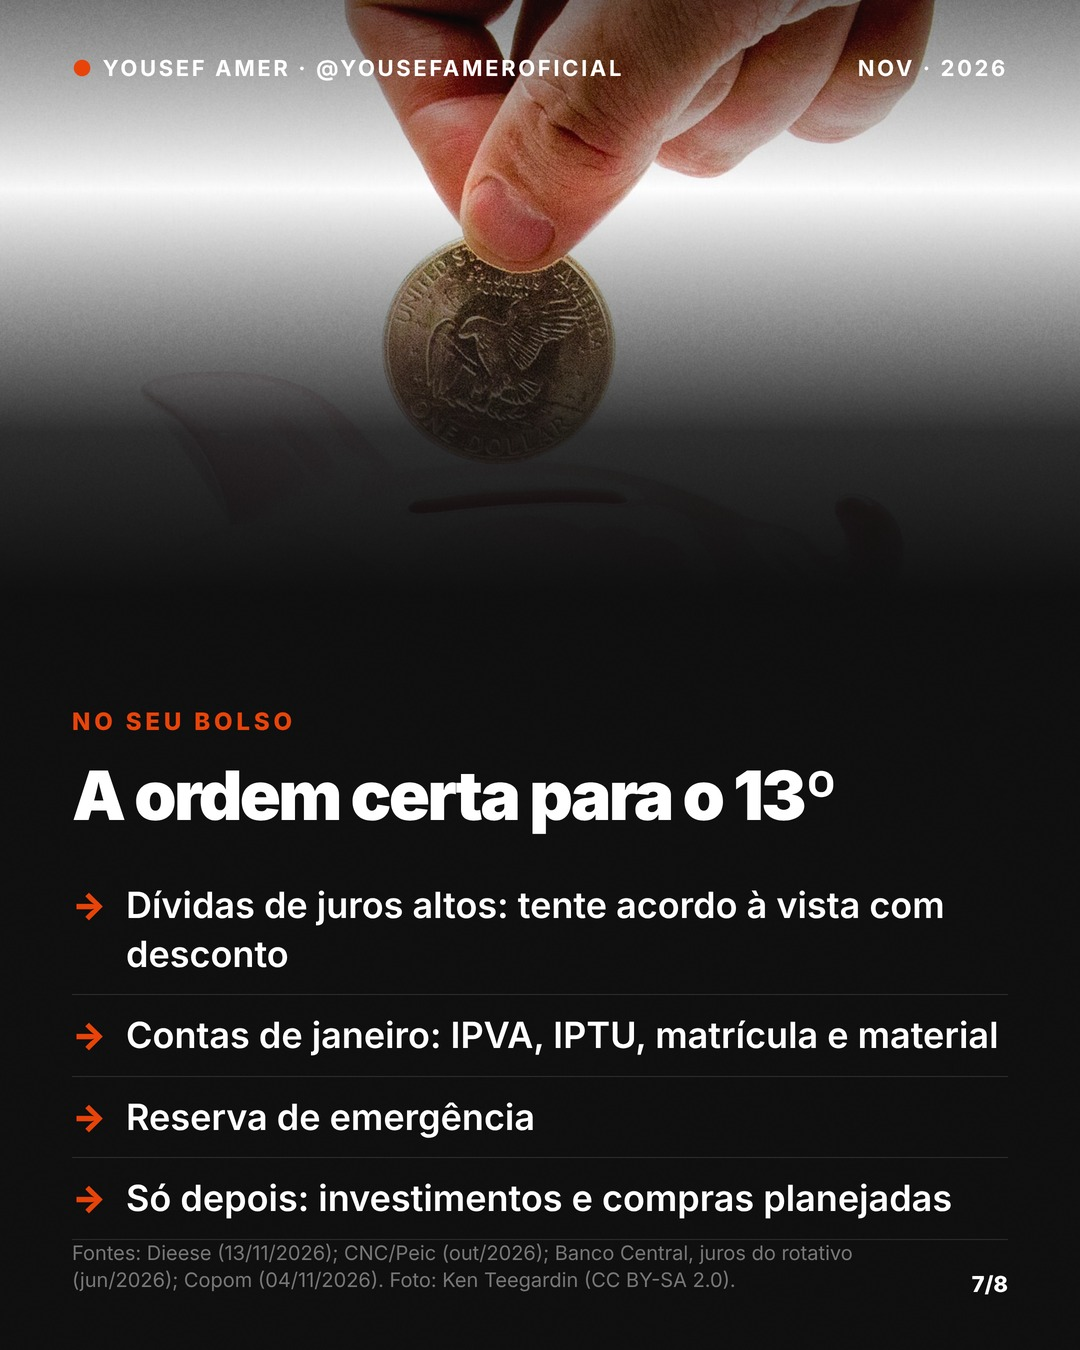
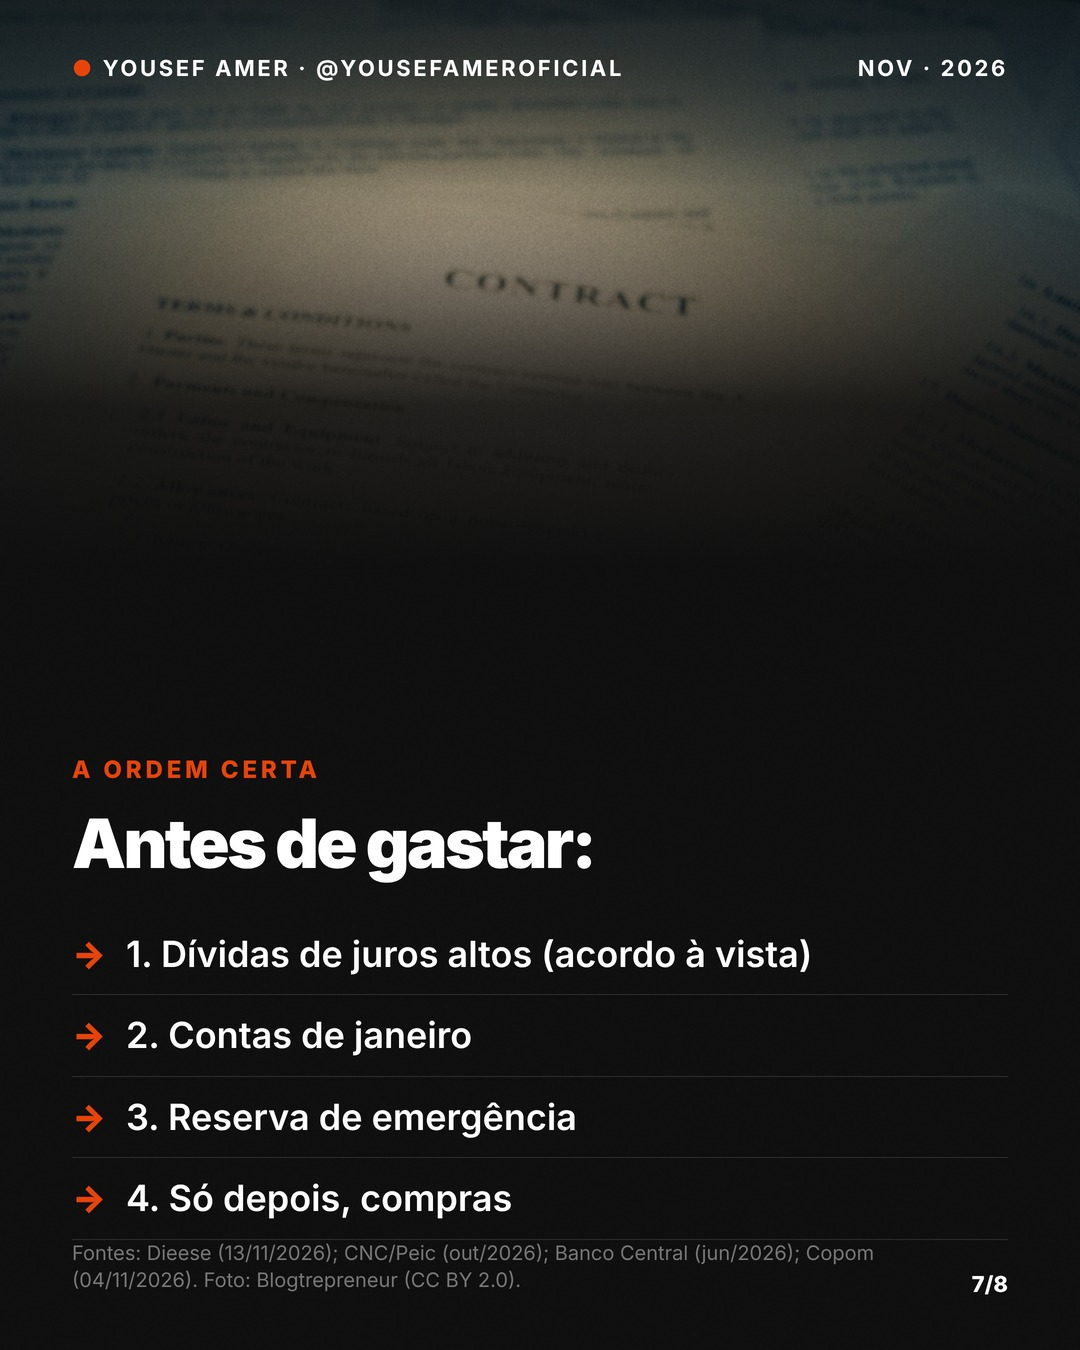
Collab 13º: novo design com foto em todos os slides e números grandes
Claude-Session: https://claude.ai/code/session_01PgX7nvM3iYSo6xDzmGNfnx

diff --git a/marketing/yousef/carrosseis/2026-11-collab-13-contas/slides/07.html b/marketing/yousef/carrosseis/2026-11-collab-13-contas/slides/07.html
@@ -4,4 +4,4 @@ ul.l{list-style:none;margin-top:34px}ul.l li{font-size:36px;line-height:1.35;fon
 ul.l li:before{content:'→';position:absolute;left:0;color:#E8440A;font-weight:900}.dark ul.l li{border-color:rgba(255,255,255,.12);color:#fff}
 .grain{position:absolute;inset:0;background:url(grain.png);opacity:.07;mix-blend-mode:overlay;pointer-events:none}
 .big2{font-size:150px;font-weight:900;letter-spacing:-.05em;line-height:.95;color:#E8440A}
-</style></head><body class="dark"><div class="top" style="z-index:3"><span><b>●</b> YOUSEF AMER · @YOUSEFAMEROFICIAL</span><span>NOV · 2026</span></div><div style="position:absolute;inset:0;background:url(hq-cofrinho.jpg) center 0%/cover;filter:contrast(1.06) saturate(.92) brightness(1)"></div><div style="position:absolute;inset:0;background:linear-gradient(180deg,rgba(15,15,15,.55) 0%,rgba(15,15,15,0) 14%,rgba(15,15,15,0) 14%,rgba(15,15,15,.88) 32%,#0F0F0F 44%)"></div><div class="grain"></div><div class="wrap" style="top:auto;bottom:110px"><div class="kick">NO SEU BOLSO</div><h2 style="color:#fff">A ordem certa para o 13º</h2><ul class="l"><li>Dívidas de juros altos: tente acordo à vista com desconto</li><li>Contas de janeiro: IPVA, IPTU, matrícula e material</li><li>Reserva de emergência</li><li>Só depois: investimentos e compras planejadas</li></ul></div><div class="src">Fontes: Dieese (13/11/2026); CNC/Peic (out/2026); Banco Central, juros do rotativo (jun/2026); Copom (04/11/2026). Foto: Ken Teegardin (CC BY-SA 2.0).</div><div class="pg">7/8</div></body></html>
+</style></head><body class="dark"><div class="top" style="z-index:3"><span><b>●</b> YOUSEF AMER · @YOUSEFAMEROFICIAL</span><span>NOV · 2026</span></div><div style="position:absolute;inset:0;background:url(hq-contrato.jpg) center center/cover;filter:contrast(1.06) saturate(.92) brightness(0.8)"></div><div style="position:absolute;inset:0;background:linear-gradient(180deg,rgba(15,15,15,.55) 0%,rgba(15,15,15,0) 14%,rgba(15,15,15,0) 12%,rgba(15,15,15,.88) 30%,#0F0F0F 42%)"></div><div class="grain"></div><div class="wrap" style="top:auto;bottom:110px"><div class="kick">A ORDEM CERTA</div><h2 style="color:#fff">Antes de gastar:</h2><ul class="l"><li>1. Dívidas de juros altos (acordo à vista)</li><li>2. Contas de janeiro</li><li>3. Reserva de emergência</li><li>4. Só depois, compras</li></ul></div><div class="src">Fontes: Dieese (13/11/2026); CNC/Peic (out/2026); Banco Central (jun/2026); Copom (04/11/2026). Foto: Blogtrepreneur (CC BY 2.0).</div><div class="pg">7/8</div></body></html>

diff --git a/marketing/yousef/carrosseis/2026-11-collab-13-contas/slides/04.html b/marketing/yousef/carrosseis/2026-11-collab-13-contas/slides/04.html
@@ -4,4 +4,4 @@ ul.l{list-style:none;margin-top:34px}ul.l li{font-size:36px;line-height:1.35;fon
 ul.l li:before{content:'→';position:absolute;left:0;color:#E8440A;font-weight:900}.dark ul.l li{border-color:rgba(255,255,255,.12);color:#fff}
 .grain{position:absolute;inset:0;background:url(grain.png);opacity:.07;mix-blend-mode:overlay;pointer-events:none}
 .big2{font-size:150px;font-weight:900;letter-spacing:-.05em;line-height:.95;color:#E8440A}
-</style></head><body class="dark"><div class="top" style="z-index:3"><span><b>●</b> YOUSEF AMER · @YOUSEFAMEROFICIAL</span><span>NOV · 2026</span></div><div style="position:absolute;inset:0;background:url(hq-pagando-cartao.jpg) 70% center/cover;filter:contrast(1.06) saturate(.92) brightness(1)"></div><div style="position:absolute;inset:0;background:linear-gradient(180deg,rgba(15,15,15,.55) 0%,rgba(15,15,15,0) 14%,rgba(15,15,15,0) 22%,rgba(15,15,15,.88) 40%,#0F0F0F 52%)"></div><div class="grain"></div><div class="wrap" style="top:auto;bottom:110px"><div class="kick">CONTA 1</div><h2 style="color:#fff">R$ 1.000 no rotativo viram <span class="or">cerca de R$ 2.000 em 5 meses</span></h2><p>Com o rotativo a 442,4% ao ano (média do Banco Central em junho), os juros passam de 15% ao mês. Em cinco meses, a dívida praticamente dobra.</p></div><div class="src">Fontes: Dieese (13/11/2026); CNC/Peic (out/2026); Banco Central, juros do rotativo (jun/2026); Copom (04/11/2026). Foto: Hloom Templates (CC BY 2.0).</div><div class="pg">4/8</div></body></html>
+</style></head><body class="dark"><div class="top" style="z-index:3"><span><b>●</b> YOUSEF AMER · @YOUSEFAMEROFICIAL</span><span>NOV · 2026</span></div><div style="position:absolute;inset:0;background:url(hq-pagando-cartao.jpg) 70% center/cover;filter:contrast(1.06) saturate(.92) brightness(0.8)"></div><div style="position:absolute;inset:0;background:linear-gradient(180deg,rgba(15,15,15,.55) 0%,rgba(15,15,15,0) 14%,rgba(15,15,15,0) 34%,rgba(15,15,15,.88) 52%,#0F0F0F 64%)"></div><div class="grain"></div><div class="wrap" style="top:auto;bottom:110px"><div class="kick">CONTA 1</div><h2 style="color:#fff">R$ 1.000 esquecidos no rotativo viram</h2><div class="big2">R$ 2.000</div><div style="font-size:34px;font-weight:800;margin:6px 0 10px">em só 5 meses, com juros de 442,4% ao ano</div></div><div class="src">Fontes: Dieese (13/11/2026); CNC/Peic (out/2026); Banco Central (jun/2026); Copom (04/11/2026). Foto: Hloom Templates (CC BY 2.0).</div><div class="pg">4/8</div></body></html>

diff --git a/marketing/yousef/carrosseis/2026-11-collab-13-contas/slides/01.html b/marketing/yousef/carrosseis/2026-11-collab-13-contas/slides/01.html
@@ -4,7 +4,7 @@ ul.l{list-style:none;margin-top:34px}ul.l li{font-size:36px;line-height:1.35;fon
 ul.l li:before{content:'→';position:absolute;left:0;color:#E8440A;font-weight:900}.dark ul.l li{border-color:rgba(255,255,255,.12);color:#fff}
 .grain{position:absolute;inset:0;background:url(grain.png);opacity:.07;mix-blend-mode:overlay;pointer-events:none}
 .big2{font-size:150px;font-weight:900;letter-spacing:-.05em;line-height:.95;color:#E8440A}
-</style></head><body class="dark"><div class="top" style="z-index:3"><span><b>●</b> YOUSEF AMER · @YOUSEFAMEROFICIAL</span><span>NOV · 2026</span></div><div class="bg" style="position:absolute;left:0;right:0;top:0;height:1350px;background:url(hq-carteira.jpg) center center/cover;filter:contrast(1.06) saturate(.92) brightness(0.85)"></div><div class="grain"></div><div style="position:absolute;inset:0;background:linear-gradient(180deg,rgba(15,15,15,.5) 0%,rgba(15,15,15,0) 18%,rgba(15,15,15,0) 38%,rgba(15,15,15,.92) 56%,#0F0F0F 66%)"></div><div style="position:absolute;left:72px;right:72px;bottom:130px"><div class="kick" style="color:#FF6B3D">13º SALÁRIO</div>
-<h1 style="color:#fff;font-size:70px">Qual é a primeira coisa que você vai fazer com o seu 13º? <span class="or">Faça as contas antes de gastar.</span></h1></div>
+</style></head><body class="dark"><div class="top" style="z-index:3"><span><b>●</b> YOUSEF AMER · @YOUSEFAMEROFICIAL</span><span>NOV · 2026</span></div><div class="bg" style="position:absolute;left:0;right:0;top:0;height:1350px;background:url(hq-reais.jpg) 60% center/cover;filter:contrast(1.06) saturate(.92) brightness(0.75)"></div><div class="grain"></div><div style="position:absolute;inset:0;background:linear-gradient(180deg,rgba(15,15,15,.5) 0%,rgba(15,15,15,0) 18%,rgba(15,15,15,0) 38%,rgba(15,15,15,.92) 56%,#0F0F0F 66%)"></div><div style="position:absolute;left:72px;right:72px;bottom:130px"><div class="kick" style="color:#FF6B3D">13º SALÁRIO</div>
+<h1 style="color:#fff;font-size:88px">Qual é a primeira coisa que você vai fazer com o seu 13º?</h1></div>
 <div style="position:absolute;bottom:60px;left:72px;font-size:26px;font-weight:800;letter-spacing:.12em;color:#E8440A">ARRASTE →</div>
-<div style="position:absolute;left:72px;bottom:24px;font-size:15px;color:#777">Foto: Marcello Casal Jr/Agência Brasil (CC BY 3.0 BR)</div></body></html>
+<div style="position:absolute;left:72px;bottom:24px;font-size:15px;color:#777">Foto: Oleg Yunakov (CC BY-SA 4.0)</div></body></html>

diff --git a/marketing/yousef/carrosseis/2026-11-collab-13-contas/slides/05.html b/marketing/yousef/carrosseis/2026-11-collab-13-contas/slides/05.html
@@ -4,4 +4,4 @@ ul.l{list-style:none;margin-top:34px}ul.l li{font-size:36px;line-height:1.35;fon
 ul.l li:before{content:'→';position:absolute;left:0;color:#E8440A;font-weight:900}.dark ul.l li{border-color:rgba(255,255,255,.12);color:#fff}
 .grain{position:absolute;inset:0;background:url(grain.png);opacity:.07;mix-blend-mode:overlay;pointer-events:none}
 .big2{font-size:150px;font-weight:900;letter-spacing:-.05em;line-height:.95;color:#E8440A}
-</style></head><body class="dark"><div class="top" style="z-index:3"><span><b>●</b> YOUSEF AMER · @YOUSEFAMEROFICIAL</span><span>NOV · 2026</span></div><div class="wrap" style="top:50%;transform:translateY(-50%)"><div class="kick">CONTA 2</div><h2 style="color:#fff">R$ 3.000 por ano, por 10 anos, viram <span class="or">cerca de R$ 57 mil</span></h2><p>Investindo R$ 3.000 de cada 13º a 13,75% ao ano (a Selic atual), você aporta R$ 30 mil e chega perto de R$ 57 mil antes do IR. Simulação: o rendimento real varia.</p></div><div class="src">Fontes: Dieese (13/11/2026); CNC/Peic (out/2026); Banco Central, juros do rotativo (jun/2026); Copom (04/11/2026).</div><div class="pg">5/8</div></body></html>
+</style></head><body class="dark"><div class="top" style="z-index:3"><span><b>●</b> YOUSEF AMER · @YOUSEFAMEROFICIAL</span><span>NOV · 2026</span></div><div style="position:absolute;inset:0;background:url(hq-cofrinho.jpg) center 10%/cover;filter:contrast(1.06) saturate(.92) brightness(0.8)"></div><div style="position:absolute;inset:0;background:linear-gradient(180deg,rgba(15,15,15,.55) 0%,rgba(15,15,15,0) 14%,rgba(15,15,15,0) 34%,rgba(15,15,15,.88) 52%,#0F0F0F 64%)"></div><div class="grain"></div><div class="wrap" style="top:auto;bottom:110px"><div class="kick">CONTA 2</div><h2 style="color:#fff">R$ 3.000 de cada 13º, investidos por 10 anos, viram</h2><div class="big2">R$ 57 mil</div><div style="font-size:34px;font-weight:800;margin:6px 0 10px">a 13,75% ao ano, antes do IR (simulação)</div></div><div class="src">Fontes: Dieese (13/11/2026); CNC/Peic (out/2026); Banco Central (jun/2026); Copom (04/11/2026). Foto: Ken Teegardin (CC BY-SA 2.0).</div><div class="pg">5/8</div></body></html>

diff --git a/marketing/yousef/carrosseis/2026-11-collab-13-contas/slides/06.html b/marketing/yousef/carrosseis/2026-11-collab-13-contas/slides/06.html
@@ -4,4 +4,4 @@ ul.l{list-style:none;margin-top:34px}ul.l li{font-size:36px;line-height:1.35;fon
 ul.l li:before{content:'→';position:absolute;left:0;color:#E8440A;font-weight:900}.dark ul.l li{border-color:rgba(255,255,255,.12);color:#fff}
 .grain{position:absolute;inset:0;background:url(grain.png);opacity:.07;mix-blend-mode:overlay;pointer-events:none}
 .big2{font-size:150px;font-weight:900;letter-spacing:-.05em;line-height:.95;color:#E8440A}
-</style></head><body class="dark"><div class="top" style="z-index:3"><span><b>●</b> YOUSEF AMER · @YOUSEFAMEROFICIAL</span><span>NOV · 2026</span></div><div class="wrap" style="top:50%;transform:translateY(-50%)"><div class="kick">A COMPARAÇÃO</div><h2 style="color:#fff">Quitar dívida cara <span class="or">rende mais que investir</span></h2><p>O investimento rende cerca de 1% ao mês. O rotativo cobra mais de 15%. Enquanto existir dívida cara, pagá-la é o melhor retorno que o seu 13º pode ter.</p></div><div class="src">Fontes: Dieese (13/11/2026); CNC/Peic (out/2026); Banco Central, juros do rotativo (jun/2026); Copom (04/11/2026).</div><div class="pg">6/8</div></body></html>
+</style></head><body class="dark"><div class="top" style="z-index:3"><span><b>●</b> YOUSEF AMER · @YOUSEFAMEROFICIAL</span><span>NOV · 2026</span></div><div style="position:absolute;inset:0;background:url(hq-maquininha.jpg) center 30%/cover;filter:contrast(1.06) saturate(.92) brightness(0.8)"></div><div style="position:absolute;inset:0;background:linear-gradient(180deg,rgba(15,15,15,.55) 0%,rgba(15,15,15,0) 14%,rgba(15,15,15,0) 34%,rgba(15,15,15,.88) 52%,#0F0F0F 64%)"></div><div class="grain"></div><div class="wrap" style="top:auto;bottom:110px"><div class="kick">A COMPARAÇÃO</div><h2 style="color:#fff">Investir rende ~1% ao mês. O rotativo cobra</h2><div class="big2">15%</div><div style="font-size:34px;font-weight:800;margin:6px 0 10px">ao mês. Quitar vem primeiro.</div></div><div class="src">Fontes: Dieese (13/11/2026); CNC/Peic (out/2026); Banco Central (jun/2026); Copom (04/11/2026). Foto: Basile Morin (CC BY-SA 4.0).</div><div class="pg">6/8</div></body></html>

diff --git a/marketing/yousef/carrosseis/2026-11-collab-13-contas/slides/02.html b/marketing/yousef/carrosseis/2026-11-collab-13-contas/slides/02.html
@@ -4,4 +4,4 @@ ul.l{list-style:none;margin-top:34px}ul.l li{font-size:36px;line-height:1.35;fon
 ul.l li:before{content:'→';position:absolute;left:0;color:#E8440A;font-weight:900}.dark ul.l li{border-color:rgba(255,255,255,.12);color:#fff}
 .grain{position:absolute;inset:0;background:url(grain.png);opacity:.07;mix-blend-mode:overlay;pointer-events:none}
 .big2{font-size:150px;font-weight:900;letter-spacing:-.05em;line-height:.95;color:#E8440A}
-</style></head><body class="dark"><div class="top" style="z-index:3"><span><b>●</b> YOUSEF AMER · @YOUSEFAMEROFICIAL</span><span>NOV · 2026</span></div><div class="wrap" style="top:50%;transform:translateY(-50%)"><div class="kick">O DINHEIRO</div><h2 style="color:#fff">R$ 399,1 bilhões</h2><p>É quanto o 13º deve colocar no bolso de 99,7 milhões de brasileiros em 2026, segundo o Dieese. A 1ª parcela cai até 30/11, três dias depois da Black Friday.</p></div><div class="src">Fontes: Dieese (13/11/2026); CNC/Peic (out/2026); Banco Central, juros do rotativo (jun/2026); Copom (04/11/2026).</div><div class="pg">2/8</div></body></html>
+</style></head><body class="dark"><div class="top" style="z-index:3"><span><b>●</b> YOUSEF AMER · @YOUSEFAMEROFICIAL</span><span>NOV · 2026</span></div><div style="position:absolute;inset:0;background:url(hq-carteira.jpg) center center/cover;filter:contrast(1.06) saturate(.92) brightness(0.8)"></div><div style="position:absolute;inset:0;background:linear-gradient(180deg,rgba(15,15,15,.55) 0%,rgba(15,15,15,0) 14%,rgba(15,15,15,0) 34%,rgba(15,15,15,.88) 52%,#0F0F0F 64%)"></div><div class="grain"></div><div class="wrap" style="top:auto;bottom:110px"><div class="kick">O DINHEIRO</div><h2 style="color:#fff">Vai cair na conta de 99,7 milhões de brasileiros</h2><div class="big2">R$ 399 bi</div><div style="font-size:34px;font-weight:800;margin:6px 0 10px">até 30/11, a 1ª parcela</div></div><div class="src">Fontes: Dieese (13/11/2026); CNC/Peic (out/2026); Banco Central (jun/2026); Copom (04/11/2026). Foto: Marcello Casal Jr/Agência Brasil (CC BY 3.0 BR).</div><div class="pg">2/8</div></body></html>

diff --git a/marketing/yousef/carrosseis/2026-11-collab-13-contas/slides/03.html b/marketing/yousef/carrosseis/2026-11-collab-13-contas/slides/03.html
@@ -4,4 +4,4 @@ ul.l{list-style:none;margin-top:34px}ul.l li{font-size:36px;line-height:1.35;fon
 ul.l li:before{content:'→';position:absolute;left:0;color:#E8440A;font-weight:900}.dark ul.l li{border-color:rgba(255,255,255,.12);color:#fff}
 .grain{position:absolute;inset:0;background:url(grain.png);opacity:.07;mix-blend-mode:overlay;pointer-events:none}
 .big2{font-size:150px;font-weight:900;letter-spacing:-.05em;line-height:.95;color:#E8440A}
-</style></head><body class="dark"><div class="top" style="z-index:3"><span><b>●</b> YOUSEF AMER · @YOUSEFAMEROFICIAL</span><span>NOV · 2026</span></div><div class="wrap" style="top:50%;transform:translateY(-50%)"><div class="kick">O PROBLEMA</div><h2 style="color:#fff">O dinheiro já chega <span class="or">com dono</span></h2><p>Em outubro, 81,6% das famílias tinham dívidas, e o cartão de crédito é o vilão mais comum. Antes de decidir o que comprar, decida o que pagar.</p></div><div class="src">Fontes: Dieese (13/11/2026); CNC/Peic (out/2026); Banco Central, juros do rotativo (jun/2026); Copom (04/11/2026).</div><div class="pg">3/8</div></body></html>
+</style></head><body class="dark"><div class="top" style="z-index:3"><span><b>●</b> YOUSEF AMER · @YOUSEFAMEROFICIAL</span><span>NOV · 2026</span></div><div style="position:absolute;inset:0;background:url(hq-cartoes.jpg) center 0%/cover;filter:contrast(1.06) saturate(.92) brightness(0.8)"></div><div style="position:absolute;inset:0;background:linear-gradient(180deg,rgba(15,15,15,.55) 0%,rgba(15,15,15,0) 14%,rgba(15,15,15,0) 34%,rgba(15,15,15,.88) 52%,#0F0F0F 64%)"></div><div class="grain"></div><div class="wrap" style="top:auto;bottom:110px"><div class="kick">O PROBLEMA</div><h2 style="color:#fff">Das famílias já estão endividadas</h2><div class="big2">81,6%</div><div style="font-size:34px;font-weight:800;margin:6px 0 10px">antes do 13º chegar</div></div><div class="src">Fontes: Dieese (13/11/2026); CNC/Peic (out/2026); Banco Central (jun/2026); Copom (04/11/2026). Foto: $5000 (CC BY-SA 4.0).</div><div class="pg">3/8</div></body></html>

diff --git a/marketing/yousef/carrosseis/2026-11-collab-13-contas/slides/08.html b/marketing/yousef/carrosseis/2026-11-collab-13-contas/slides/08.html
@@ -4,8 +4,8 @@ ul.l{list-style:none;margin-top:34px}ul.l li{font-size:36px;line-height:1.35;fon
 ul.l li:before{content:'→';position:absolute;left:0;color:#E8440A;font-weight:900}.dark ul.l li{border-color:rgba(255,255,255,.12);color:#fff}
 .grain{position:absolute;inset:0;background:url(grain.png);opacity:.07;mix-blend-mode:overlay;pointer-events:none}
 .big2{font-size:150px;font-weight:900;letter-spacing:-.05em;line-height:.95;color:#E8440A}
-</style></head><body class="dark"><div class="top" style="z-index:3"><span><b>●</b> YOUSEF AMER · @YOUSEFAMEROFICIAL</span><span>NOV · 2026</span></div><div class="wrap" style="top:50%;transform:translateY(-55%)"><div class="kick">RESPONDE AQUI</div>
-<h1 style="color:#fff;font-size:76px">E você, o que vai fazer com o seu 13º?</h1>
+</style></head><body class="dark"><div class="top" style="z-index:3"><span><b>●</b> YOUSEF AMER · @YOUSEFAMEROFICIAL</span><span>NOV · 2026</span></div><div style="position:absolute;left:0;right:0;top:0;height:640px;background:url(hq-reais.jpg) 30% center/cover;filter:brightness(0.6)"></div><div style="position:absolute;left:0;right:0;top:0;height:640px;background:linear-gradient(180deg,rgba(15,15,15,.5),rgba(15,15,15,0) 25%,rgba(15,15,15,.35) 70%,#0F0F0F)"></div><div class="wrap" style="top:590px"><div class="kick">RESPONDE AQUI</div>
+<h1 style="color:#fff;font-size:68px">E você, o que vai fazer com o seu 13º?</h1>
 <div style="margin-top:34px;border:3px solid #E8440A;border-radius:22px;padding:34px 40px;font-size:44px;line-height:1.3;font-weight:700;color:#fff">Comenta <span class="or" style="font-weight:900">PLANILHA</span> e receba a planilha de organização financeira e negociação de dívidas.</div>
 <div style="margin-top:26px;font-size:26px;color:#9CA3AF;font-weight:600">Yousef Amer · fundador da @tbfinance_</div></div>
 <img src="../../../../tbfinance/assets/logo-tb-light.png" style="position:absolute;right:72px;bottom:46px;height:64px"></body></html>

diff --git a/marketing/fotos-noticias/CREDITOS.md b/marketing/fotos-noticias/CREDITOS.md
@@ -32,3 +32,4 @@
 | hq-carteira.jpg | Carteira de trabalho | Marcello Casal Jr/ABr | CC BY 3.0 BR | File:Carteiradetrabalho.jpg |
 | hq-amodei.jpg | Dario Amodei | TechCrunch | CC BY 2.0 | File:Dario Amodei at TechCrunch Disrupt 2023 01.jpg |
 | hq-dolar.jpg | Celular com ChatGPT sobre notas de dólar | Jernej Furman | CC BY 2.0 | File:Smartphone with ChatGPT text on the US dollar banknotes background (52916923766).jpg |
+| hq-reais.jpg | Nota de R$ 20 | Oleg Yunakov | CC BY-SA 4.0 | File:20 Brazilian Real banknote featuring a Golden Lion Tamarin monkey.jpg |
